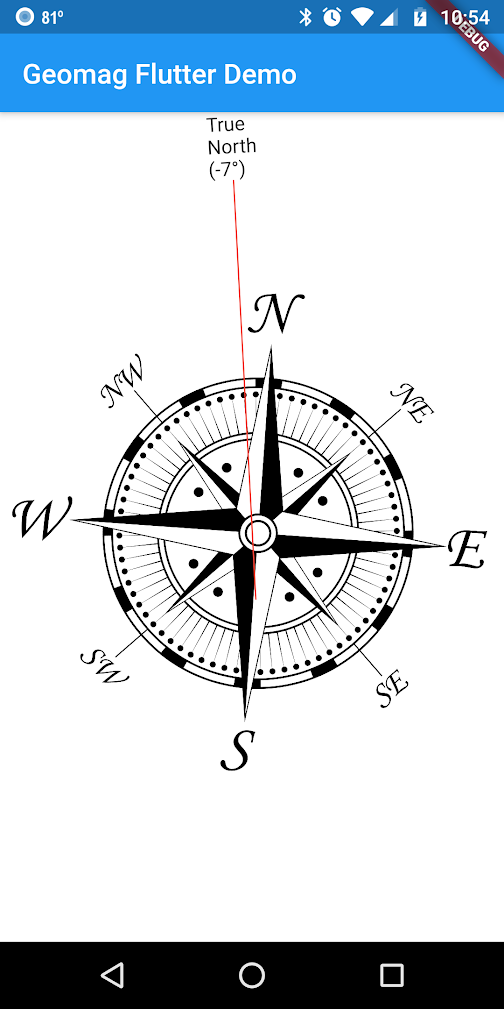
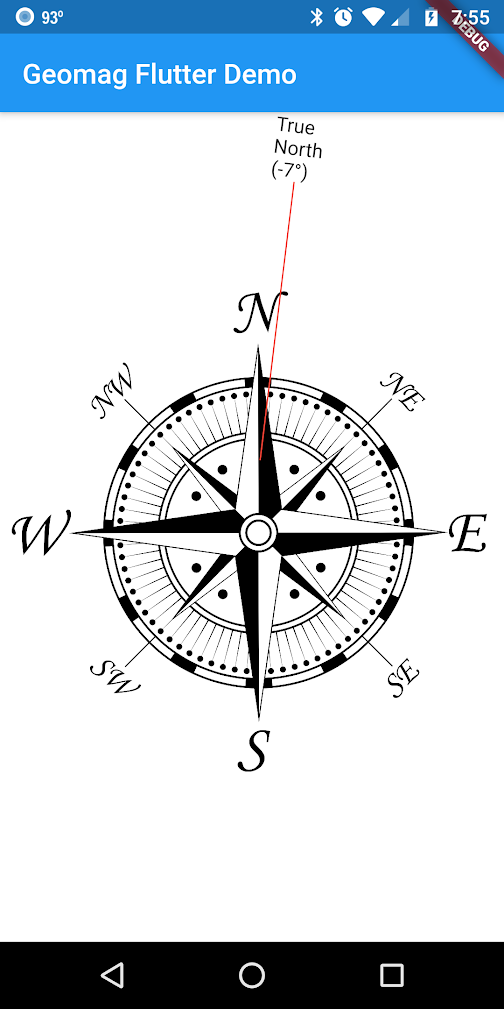
Fix flutter example

diff --git a/example/flutter/lib/main.dart b/example/flutter/lib/main.dart
@@ -59,11 +59,15 @@ class _MyAppState extends State<MyApp> {
                   _declination == null
                       ? Container()
                       : Transform.rotate(
-                          angle: _declination * math.pi / 180,
+                          angle: -1 * _declination * math.pi / 180,
                           child: Column(
                             children: [
                               Text('True\nNorth\n(${_declination.round()}°)'),
-                              Container(color: Colors.red, width: 1, height: 300,),
+                              Container(
+                                color: Colors.red,
+                                width: 1,
+                                height: 200,
+                              ),
                             ],
                           ),
                         ),

diff --git a/lib/src/geomag.dart b/lib/src/geomag.dart
@@ -413,7 +413,7 @@ class GeoMagResult {
   const GeoMagResult._(this.dec, this.dip, this.ti, this.bh, this.bx, this.by,
       this.bz, this.lat, this.lon, this.gv, this.time);
 
-  /// Declination
+  /// Declination in degrees east of geographic north.
   final double dec;
   final double dip;
   final double ti;

diff --git a/CHANGELOG.md b/CHANGELOG.md
@@ -1,6 +1,6 @@
-## 0.1.0+1
+## 0.1.0+4
 
-- Added Flutter example
+- Fix Flutter example
 
 ## 0.1.0
 
